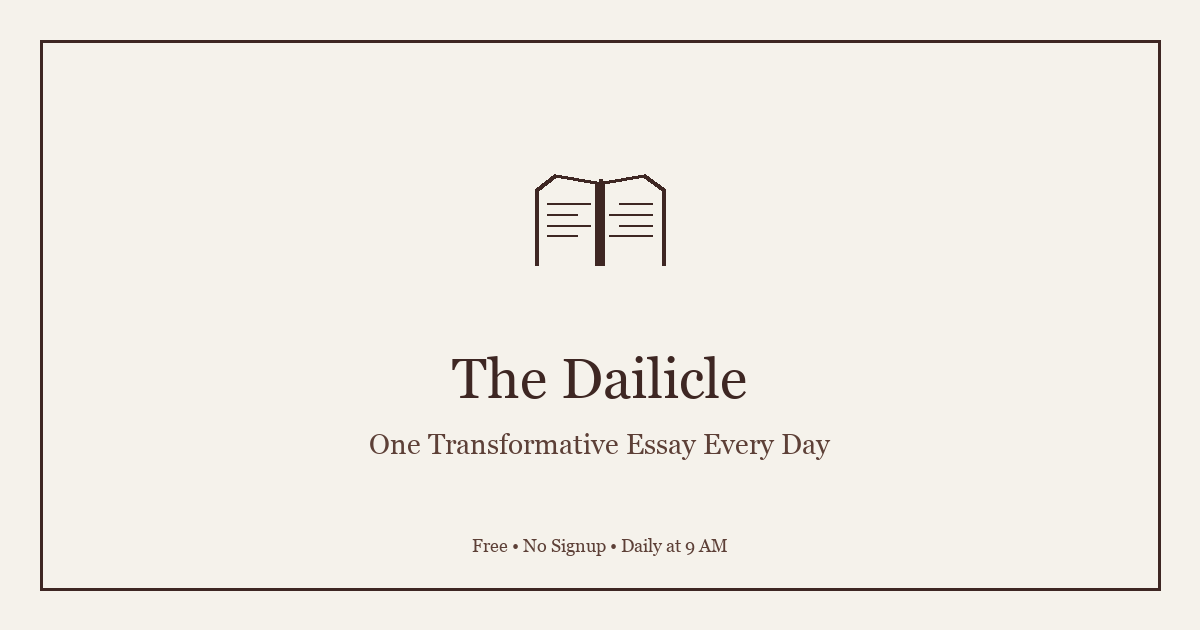
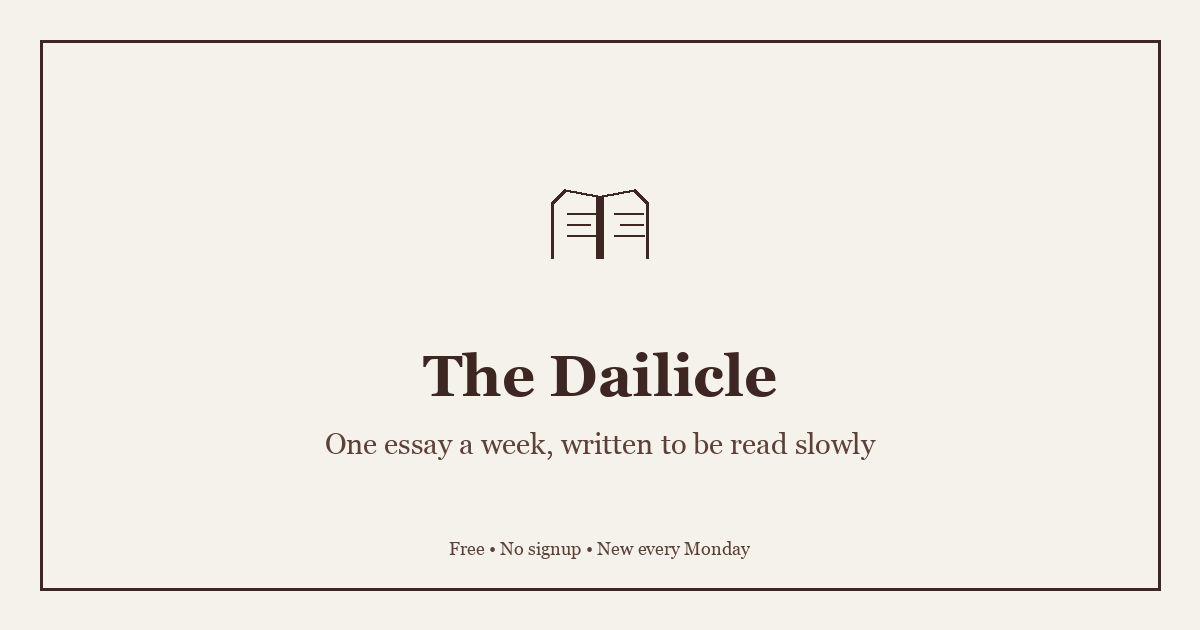
Update weekly OG metadata and sitemap

diff --git a/src/app/manifesto/layout.tsx b/src/app/manifesto/layout.tsx
@@ -2,7 +2,7 @@ import type { Metadata } from "next";
 
 export const metadata: Metadata = {
   title: "Our Manifesto - Why Read Dailicle?",
-  description: "The Dailicle manifesto: A rebellion against the noise. Learn why we publish one deeply researched essay per day, no algorithms, no infinite scrolls. For the curious, builders, and thinkers who value depth over breadth.",
+  description: "The Dailicle manifesto: a rebellion against the noise. Learn why we publish one deeply researched essay a week, no algorithms, no infinite scrolls.",
   keywords: [
     "slow web manifesto",
     "digital wellbeing",
@@ -17,7 +17,7 @@ export const metadata: Metadata = {
   ],
   openGraph: {
     title: "Our Manifesto - Why Read Dailicle? | The Slow Web Movement",
-    description: "A rebellion against the noise. One essay per day. No recommendations. No infinite scroll. Just deep, thoughtful reading.",
+    description: "A rebellion against the noise. One essay a week. No recommendations. No infinite scroll. Just deep, thoughtful reading.",
     url: "https://dailicle.com/manifesto",
     type: "article",
     images: [
@@ -32,7 +32,7 @@ export const metadata: Metadata = {
   twitter: {
     card: "summary_large_image",
     title: "Our Manifesto - Why Read Dailicle?",
-    description: "A rebellion against the noise. One essay per day. No recommendations. No infinite scroll.",
+    description: "A rebellion against the noise. One essay a week. No recommendations. No infinite scroll.",
     images: ["/og-manifesto.png"],
   },
   alternates: {

diff --git a/src/app/sitemap.ts b/src/app/sitemap.ts
@@ -5,25 +5,34 @@ export default async function sitemap(): Promise<MetadataRoute.Sitemap> {
   const baseUrl = 'https://dailicle.com'
 
   const essays = await getAllReadable()
+  const latestEssayDate = essays[0]?.published_at
+    ? new Date(essays[0].published_at)
+    : new Date()
 
   const staticPages: MetadataRoute.Sitemap = [
     {
       url: baseUrl,
-      lastModified: new Date(),
+      lastModified: latestEssayDate,
       changeFrequency: 'weekly',
       priority: 1,
     },
     {
       url: `${baseUrl}/archive`,
-      lastModified: new Date(),
+      lastModified: latestEssayDate,
       changeFrequency: 'weekly',
       priority: 0.9,
     },
     {
       url: `${baseUrl}/manifesto`,
-      lastModified: new Date(),
+      lastModified: new Date('2026-07-04'),
       changeFrequency: 'yearly',
       priority: 0.7,
+    },
+    {
+      url: `${baseUrl}/feedback`,
+      lastModified: new Date('2026-07-04'),
+      changeFrequency: 'yearly',
+      priority: 0.3,
     },
   ]
 
